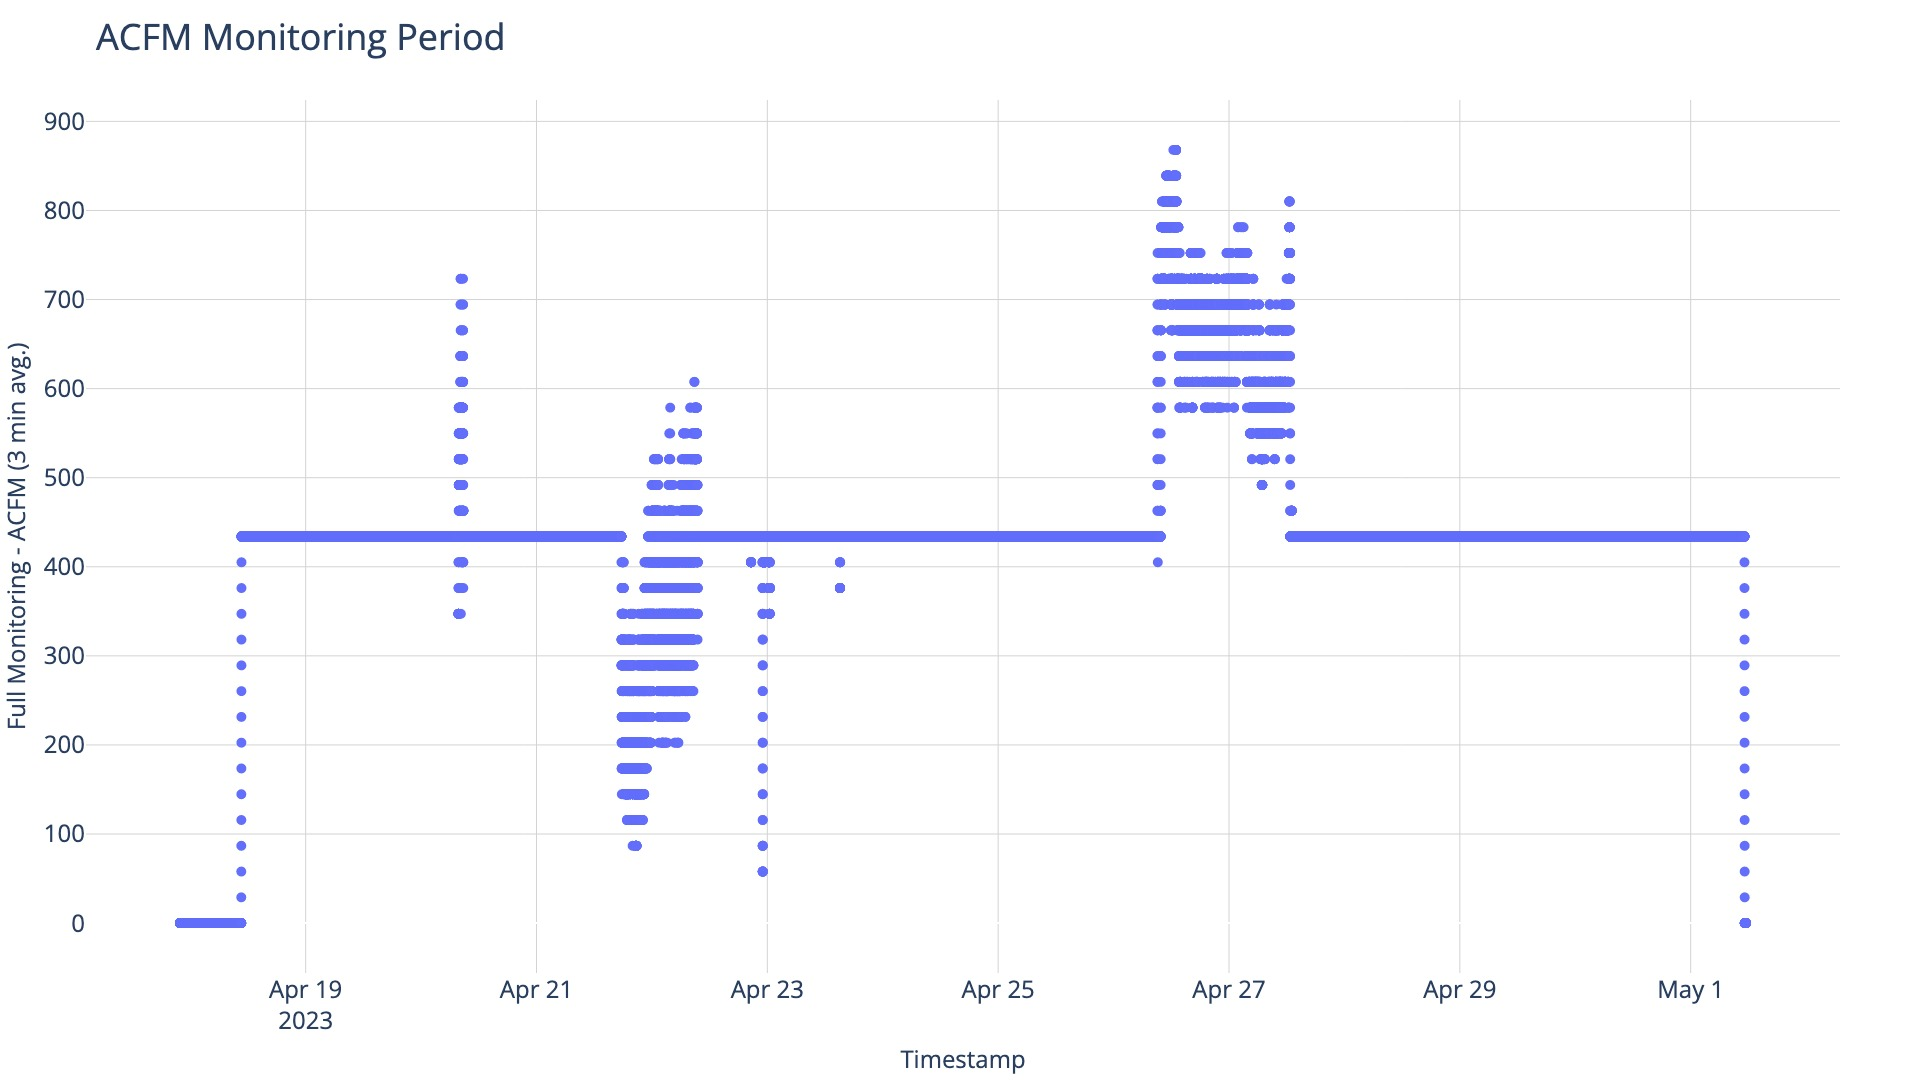
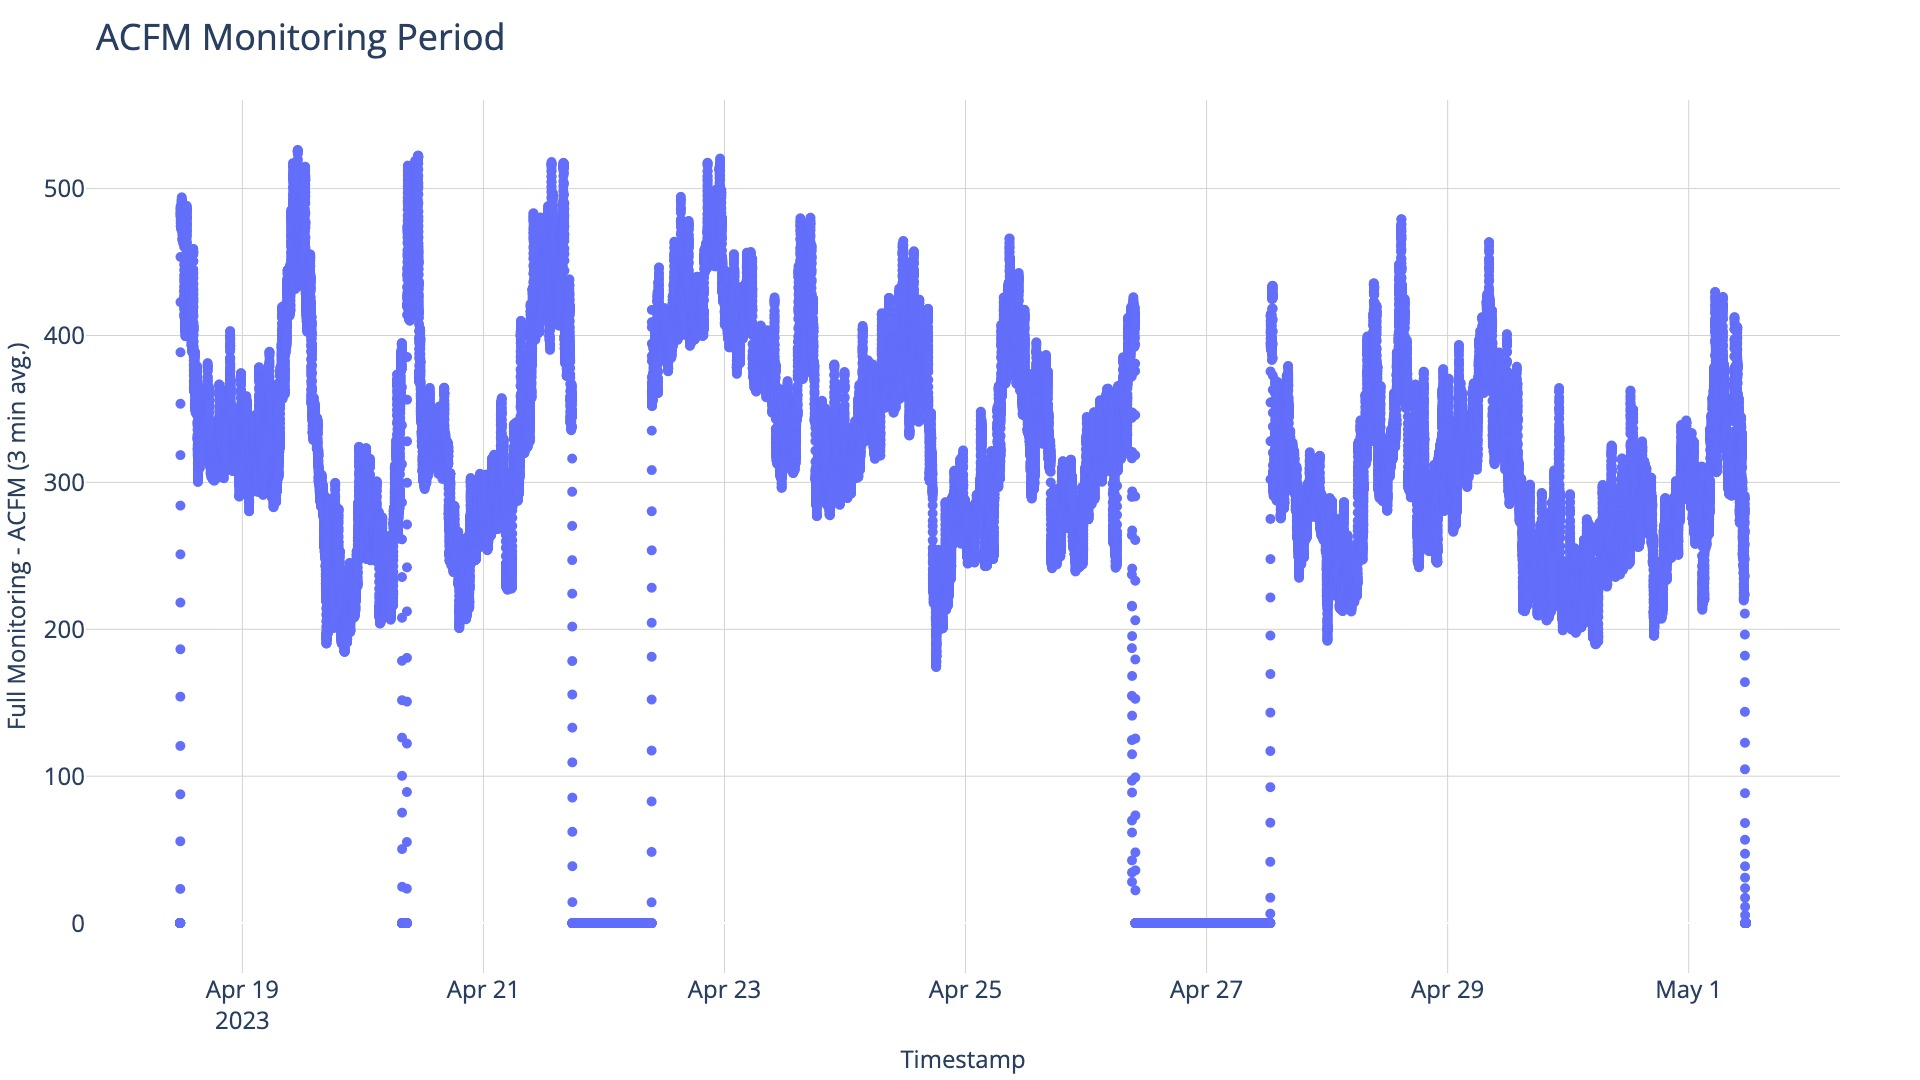
cfm bug on Fixed Speed Variable Capacity Flow Calc

diff --git a/src/routes/common_functions.py b/src/routes/common_functions.py
@@ -331,6 +331,7 @@ def calculate_inlet_mod_acfm(amps, slope, intercept, min_amps, max_flow):
         return init_flow
 
 def calculate_flow(df, control, cfm, volts, dev, idx, ac_name, ac_json, report_id):
+    print(f"control: {control}")
     if control == "Fixed Speed - OLOL":
         if "threshold-value" in ac_json["response"]:
             threshold = ac_json["response"]["threshold-value"]
@@ -849,14 +850,23 @@ def compile_master_df(report_id, dev):
             patch_req("Report", report_id, body={"loading": f"Missing Control Type! Air Compressor: {ac_name}", "is_loading_error": "yes"}, dev=dev)
             sys.exit()
         
-        if "CFM" in ac_json["response"]:
-            cfm = ac_json["response"]["CFM"] # Used as "CFM" in OLOL calcs and "Max CFM at setpoint psig" in VFD calcs
-            cfms.append(cfm)
-        elif control != "Fixed Speed - Variable Capacity":
-            patch_req("Report", report_id, body={"loading": f"Missing CFM! Air Compressor: {ac_name}", "is_loading_error": "yes"}, dev=dev)
-            sys.exit(1)
-        else:
+        if control == "Fixed Speed - Variable Capacity":
             cfm = 1
+        else:
+            if "CFM" in ac_json["response"]:
+                cfm = ac_json["response"]["CFM"] # Used as "CFM" in OLOL calcs and "Max CFM at setpoint psig" in VFD calcs
+            else:
+                patch_req("Report", report_id, body={"loading": f"Missing CFM! Air Compressor: {ac_name}", "is_loading_error": "yes"}, dev=dev)
+                sys.exit()
+        
+        # if "CFM" in ac_json["response"]:
+        #     cfm = ac_json["response"]["CFM"] # Used as "CFM" in OLOL calcs and "Max CFM at setpoint psig" in VFD calcs
+        #     cfms.append(cfm)
+        # elif control != "Fixed Speed - Variable Capacity":
+        #     patch_req("Report", report_id, body={"loading": f"Missing CFM! Air Compressor: {ac_name}", "is_loading_error": "yes"}, dev=dev)
+        #     sys.exit(1)
+        # else:
+        #     cfm = 1
 
         df = calculate_flow(df, control, cfm, volts, dev, idx, ac_name, ac_json, report_id)
 

diff --git a/src/routes/update_7_2.py b/src/routes/update_7_2.py
@@ -241,12 +241,15 @@ def get_average_kw(report_id, report_json, dev):
         else:
             common_functions.patch_req("Report", report_id, body={"loading": f"Missing Control Type! Air Compressor: {ac_name}", "is_loading_error": "yes"}, dev=dev)
             sys.exit()
-        
-        if "CFM" in ac_json["response"]:
-            cfm = ac_json["response"]["CFM"] # Used as "CFM" in OLOL calcs and "Max CFM at setpoint psig" in VFD calcs
-        elif control != "Fixed Speed - Variable Capacity":
-            common_functions.patch_req("Report", report_id, body={"loading": f"Missing CFM! Air Compressor: {ac_name}", "is_loading_error": "yes"}, dev=dev)
-            sys.exit()
+
+        if control == "Fixed Speed - Variable Capacity":
+            cfm = 1
+        else:
+            if "CFM" in ac_json["response"]:
+                cfm = ac_json["response"]["CFM"] # Used as "CFM" in OLOL calcs and "Max CFM at setpoint psig" in VFD calcs
+            else:
+                common_functions.patch_req("Report", report_id, body={"loading": f"Missing CFM! Air Compressor: {ac_name}", "is_loading_error": "yes"}, dev=dev)
+                sys.exit()
         
 
         print(f"calculating flow for {ac_name}")

diff --git a/src/routes/histogram_7_2.py b/src/routes/histogram_7_2.py
@@ -314,8 +314,9 @@ def get_df_for_each_ac(ac_ids, report_id, dev):
         if "CFM" in ac_json["response"]:
             cfm = ac_json["response"]["CFM"] # Used as "CFM" in OLOL calcs and "Max CFM at setpoint psig" in VFD calcs
         else:
-            common_functions.patch_req("Report", report_id, body={"loading": f"Missing CFM! Air Compressor: {ac_name}", "is_loading_error": "yes"}, dev=dev)
-            sys.exit()
+            cfm = 1
+            # common_functions.patch_req("Report", report_id, body={"loading": f"Missing CFM! Air Compressor: {ac_name}", "is_loading_error": "yes"}, dev=dev)
+            # sys.exit(1)
         
         df = common_functions.calculate_flow(df, control, cfm, volts, dev, idx, ac_name, ac_json, report_id)
 
